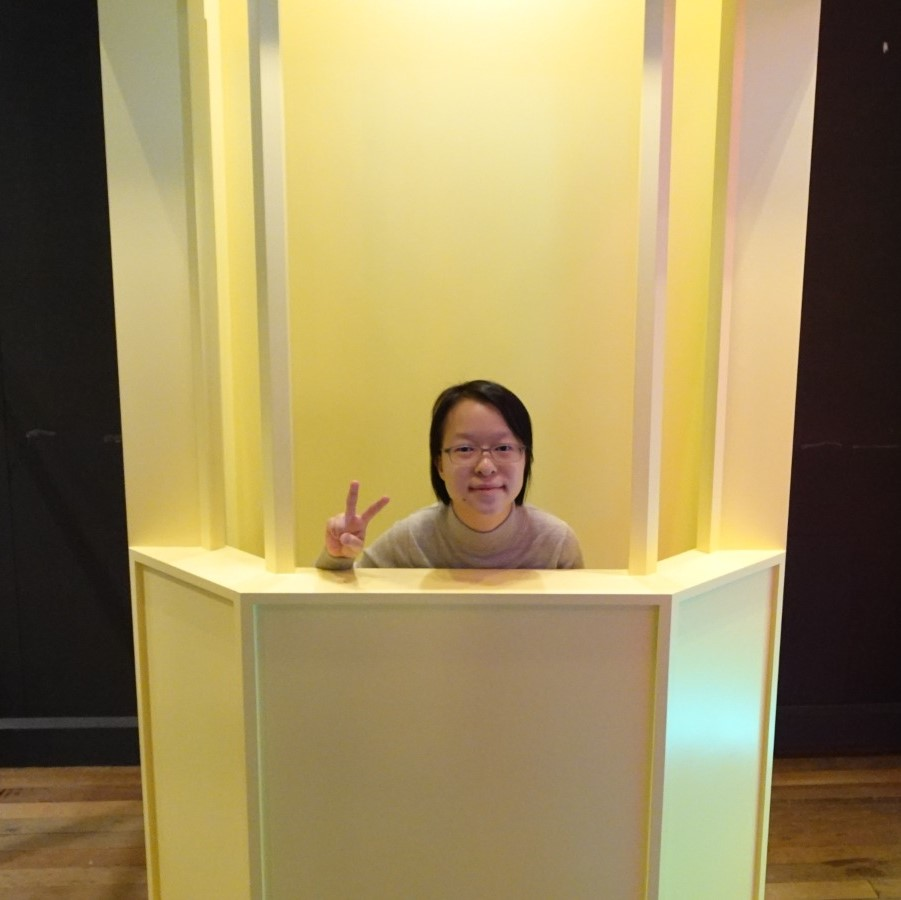
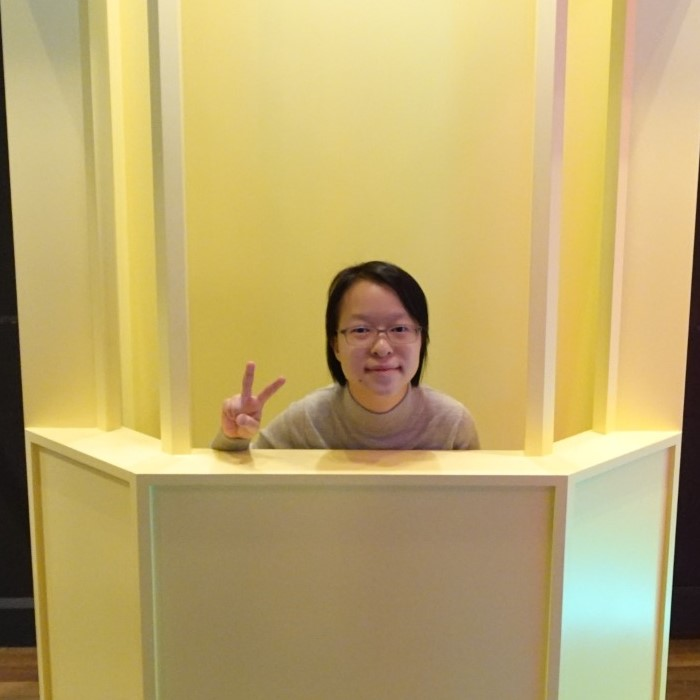
wk1

diff --git a/index.html b/index.html
@@ -1,4 +1,12 @@
 <html>
+    <head>
+        <style>
+            img {
+                max-width:20%;
+                height:auto;
+            }
+        </style>
+    </head>
     <body>
         <h1>Self intro</h1>
         <img src="me.jpg">
